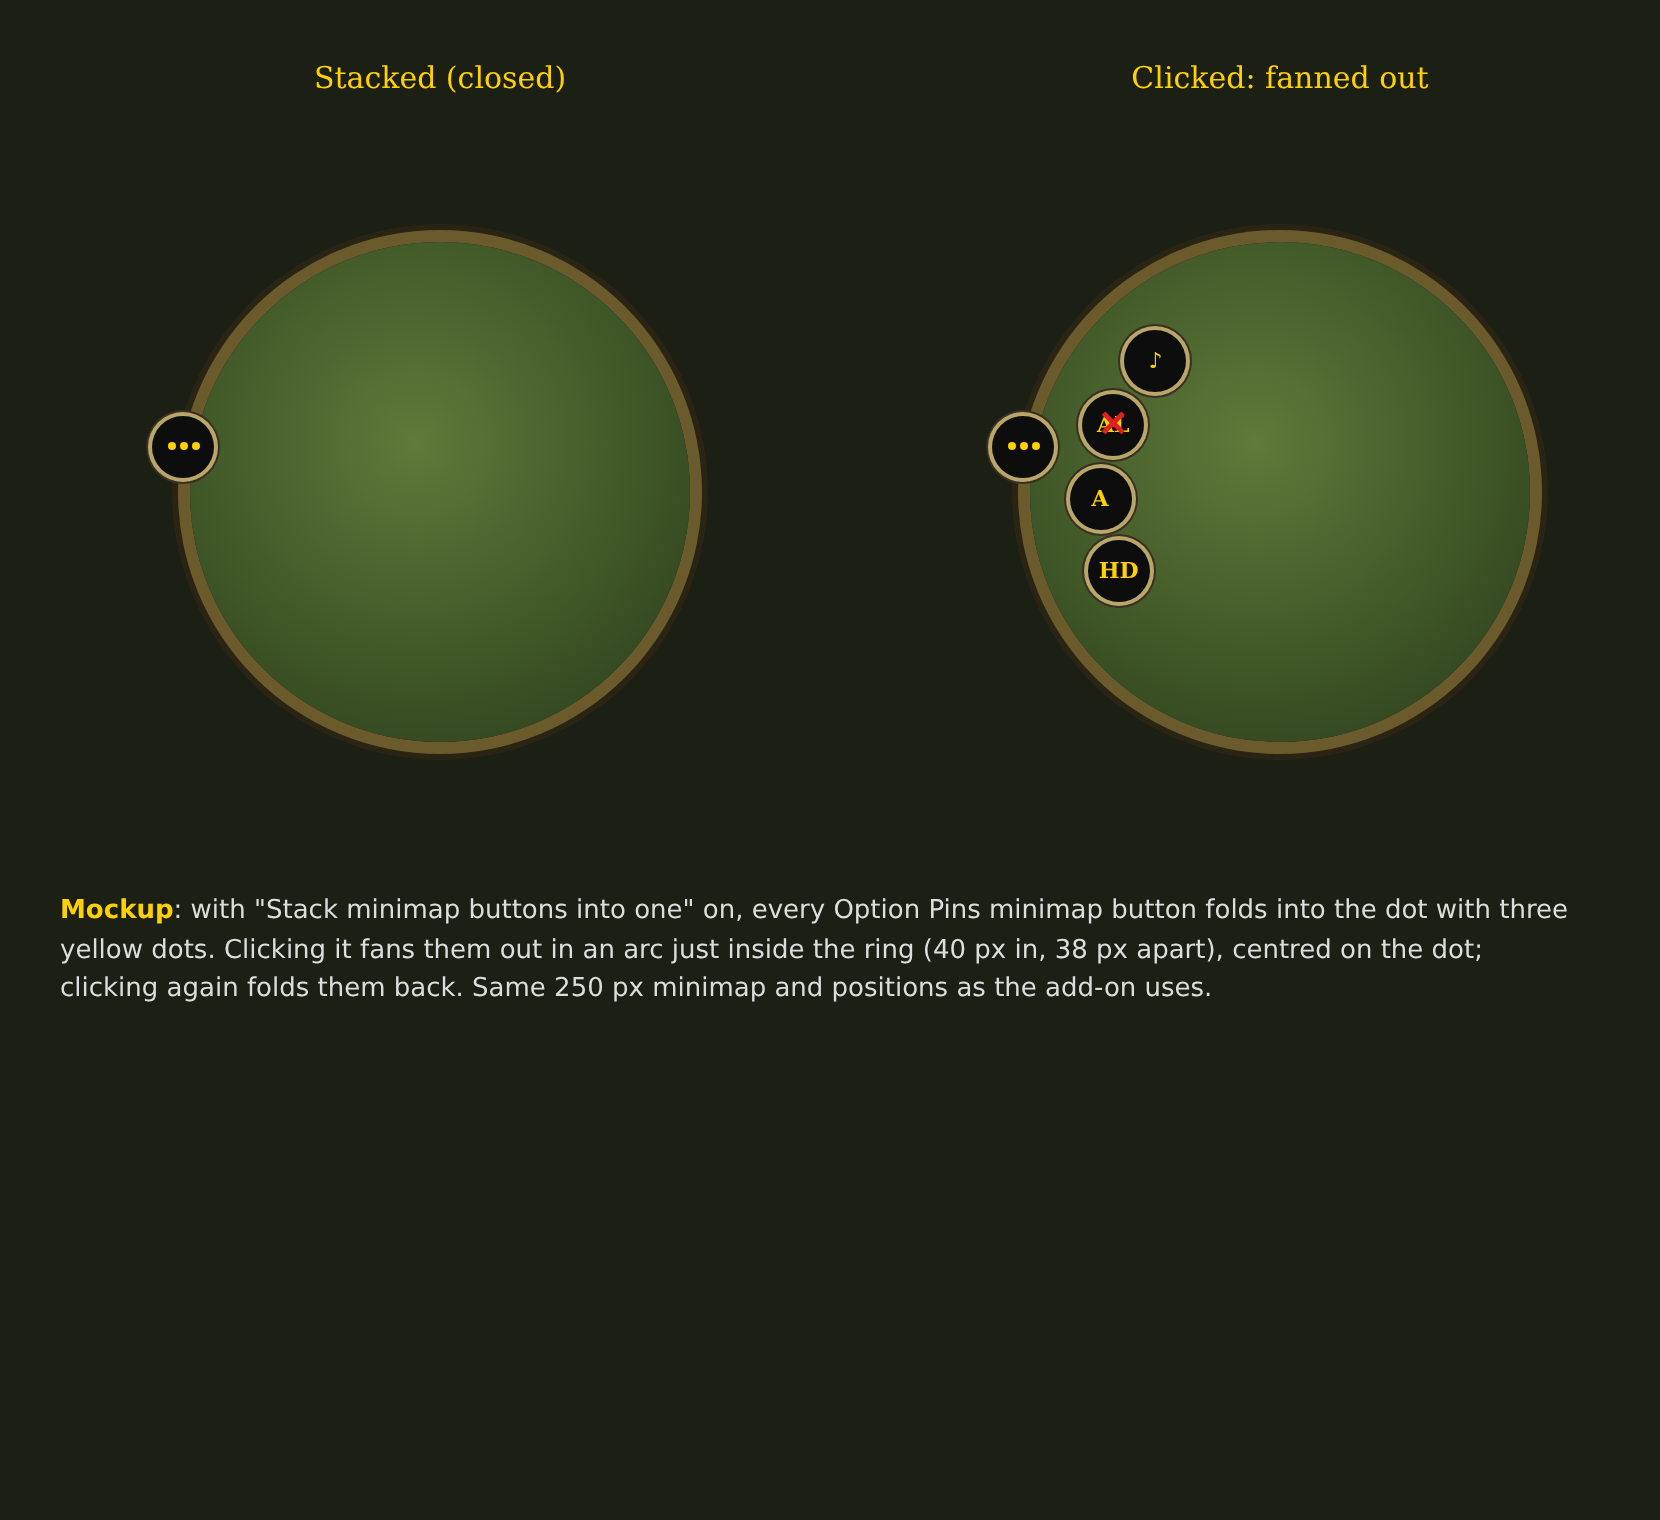
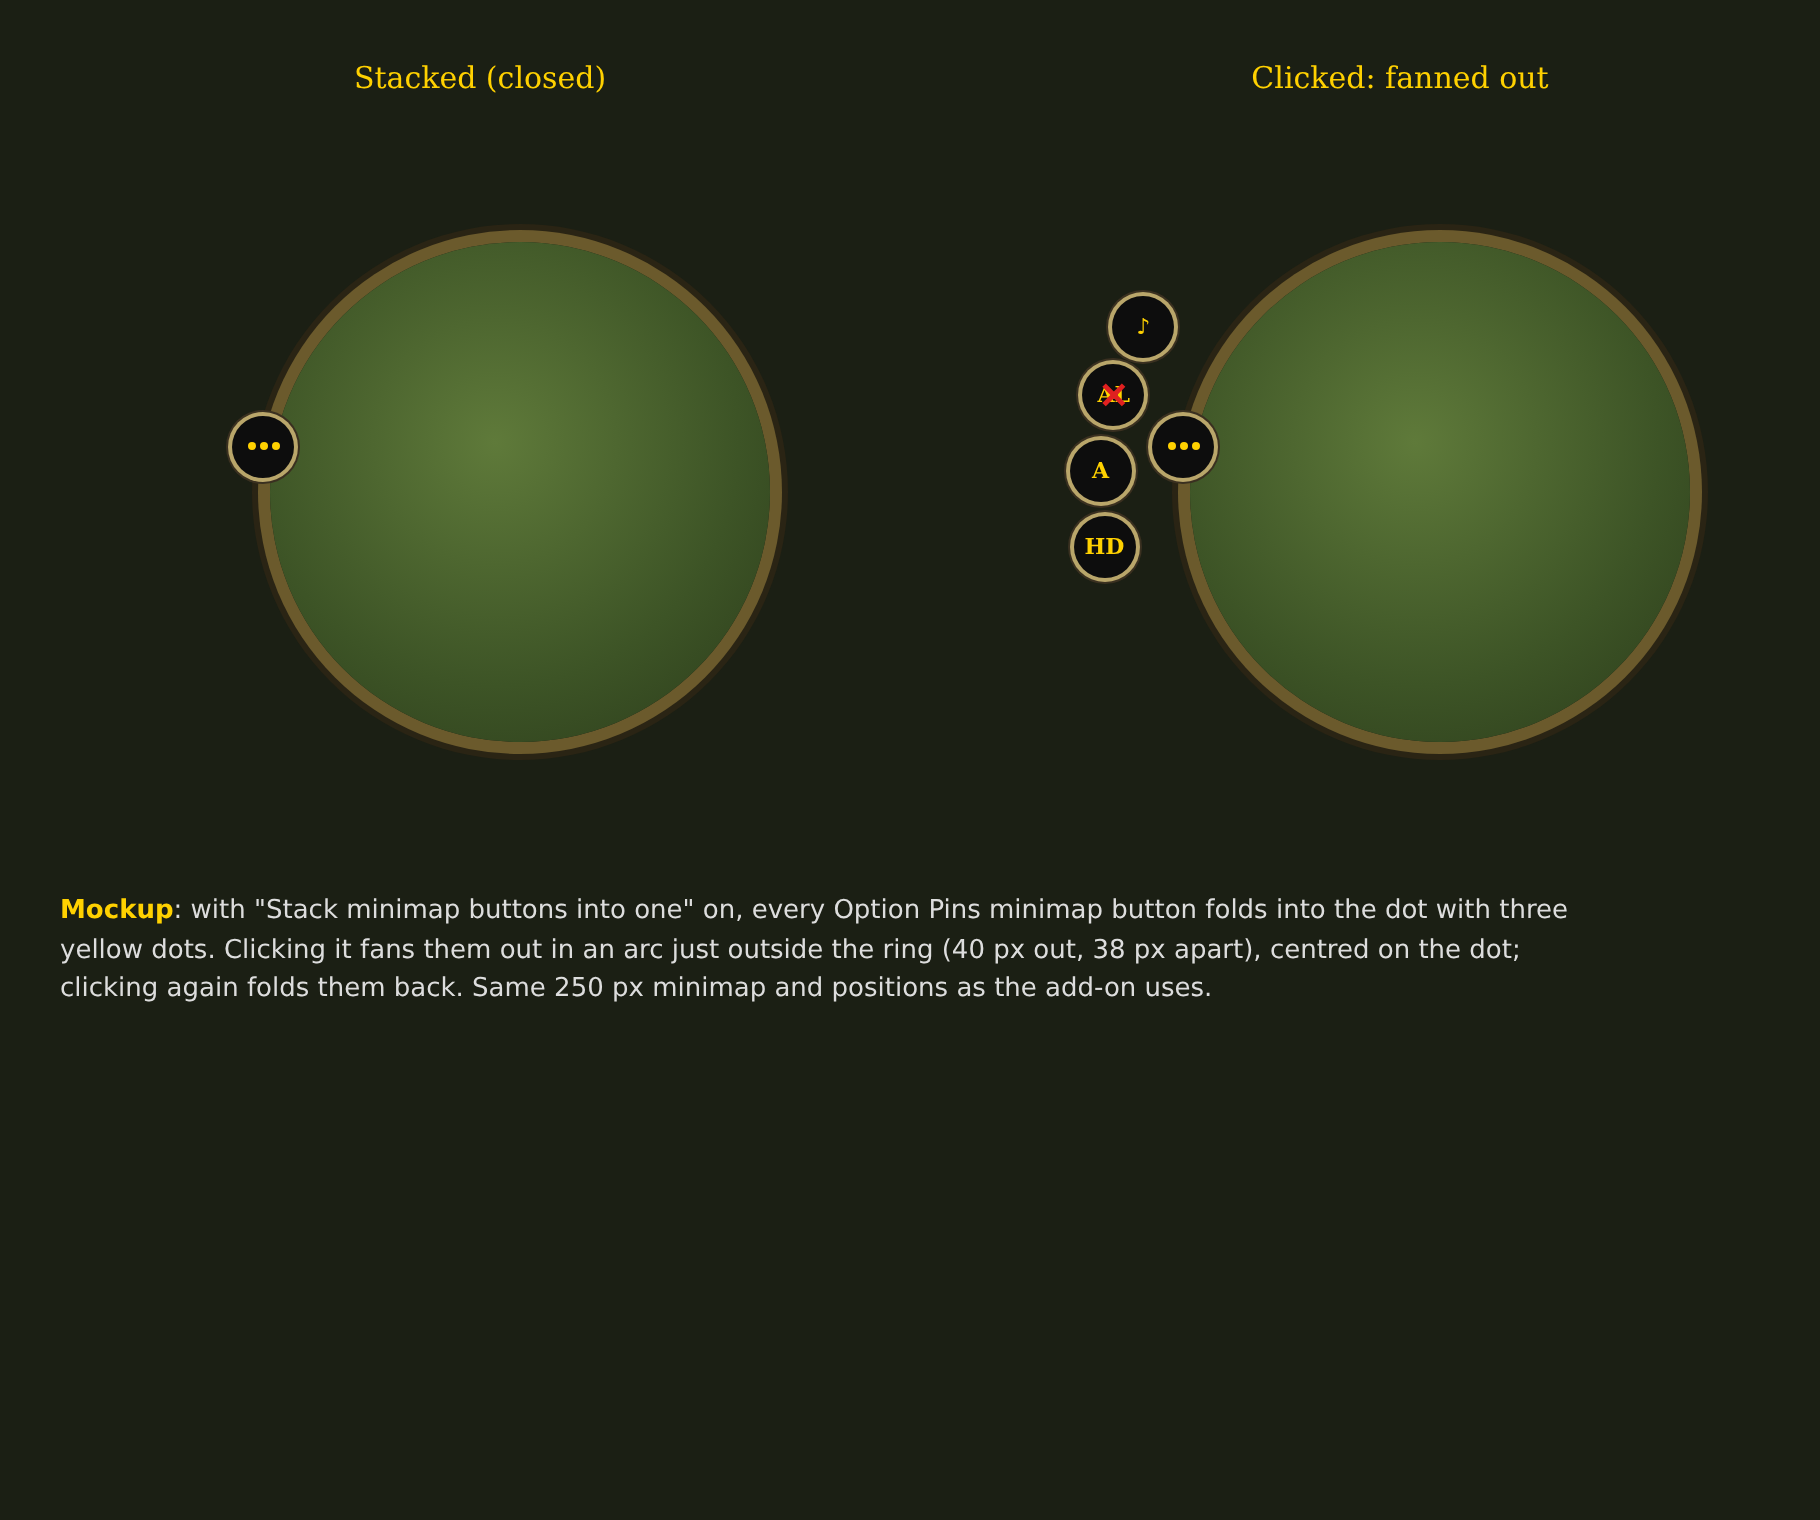
Fan stacked minimap dots outward
The fan now opens in an arc 40 px outside the minimap ring, centred on
the stack dot, with any further arcs further out. Mockup updated.

Claude-Session: https://claude.ai/code/session_01AcEs4FV6sJB4ptE7Dv7TJe

diff --git a/README.md b/README.md
@@ -68,7 +68,7 @@ minimap button, it becomes the Character Models minimap button at the same spot.
 | Untick it | remove that control |
 | Left-click a button | flip the setting, or go to the next choice for a dropdown |
 | Shift-click a dropdown's button | go to the previous choice |
-| Tick "Stack minimap buttons into one" (menu, Options > AddOns, or `/pins stack`) | fold all your Option Pins minimap buttons into one dot with three dots in it; click it to fan them out in an arc just inside the minimap ring, click again to fold them back; drag it around the ring like any other (`docs/stack-mockup.png` shows it) |
+| Tick "Stack minimap buttons into one" (menu, Options > AddOns, or `/pins stack`) | fold all your Option Pins minimap buttons into one dot with three dots in it; click it to fan them out in an arc just outside the minimap ring, click again to fold them back; drag it around the ring like any other (`docs/stack-mockup.png` shows it) |
 | Alt-click a minimap or floating button | remove it (the setting is left as it is); add it back from the menu or the Options window |
 | Drag a slider, click along it, or roll the mouse wheel over it | change that setting |
 | Click a slider's undo button | put the setting back where it was before you moved the slider |
